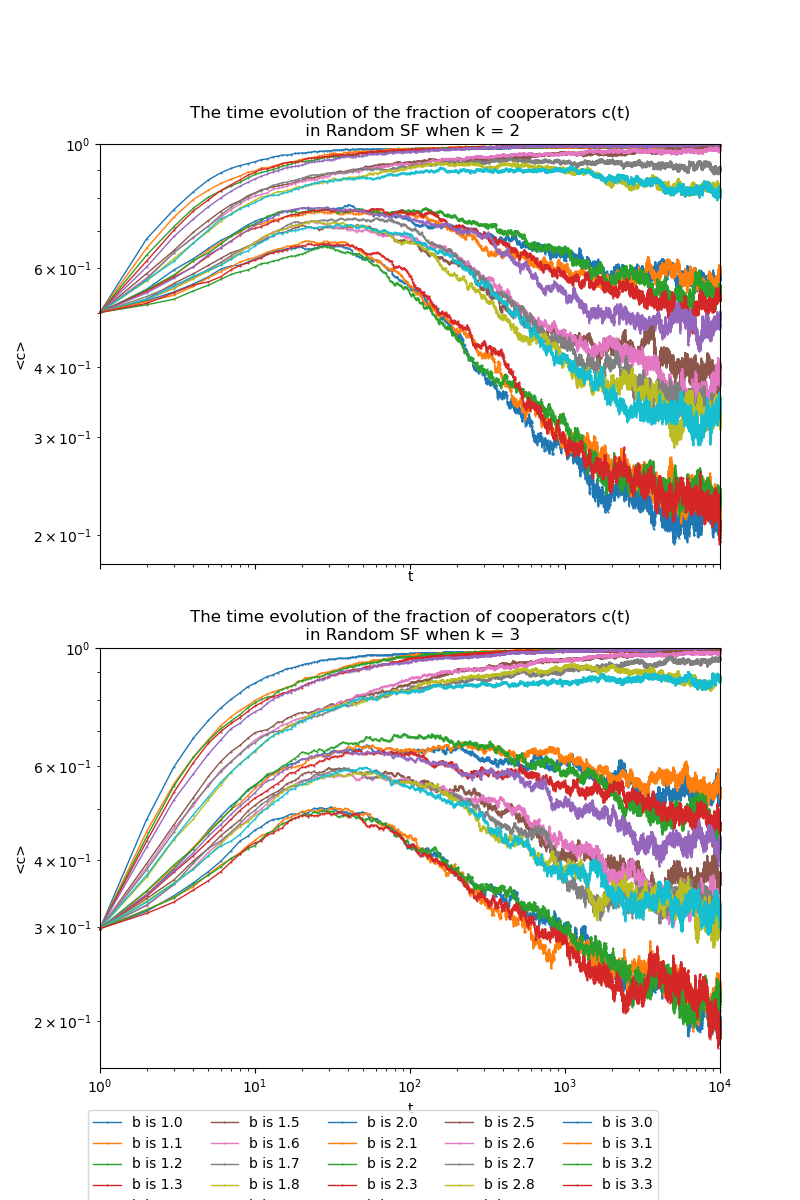
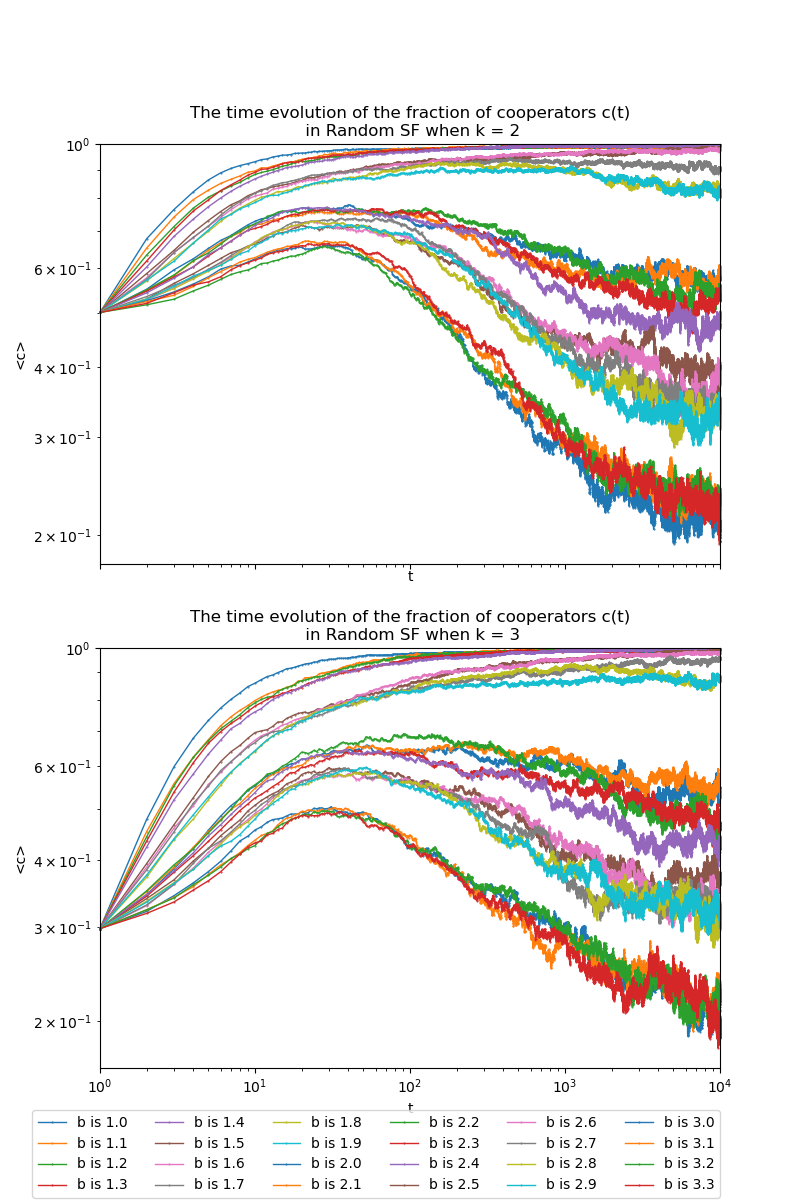
修复一点图片问题

Changed region(s): [[0.0312, 0.925, 0.9062, 1.0]]

diff --git a/plot_ba_p2.py b/plot_ba_p2.py
@@ -34,27 +34,27 @@ for i in range(len(bs)):
 # horizontal
 # ax[0].set_yscale('log')
 # ax[1].set_yscale('log')
-
+#
 # # ax[1].legend(loc=(.05, -.4), ncol=3)
 # ax[0].set_ylabel('<c>')
 # ax[1].set_ylabel('<c>')
-
+#
 # ax[0].set_title('The time evolution of the fraction of cooperators c(t)\n in BA when k = 2')
 # ax[1].set_title('The time evolution of the fraction of cooperators c(t)\n in BA when k = 3')
-
+#
 # ax[0].set_xscale('log')
 # ax[1].set_xscale('log')
-
+#
 # ax[0].set_xlim(1, 10000)
 # ax[1].set_xlim(1, 10000)
-
+#
 # ax[0].set_ylim(0, 1)
 # ax[1].set_ylim(0, 1)
-
+#
 # ax[0].set_xlabel('t')
 # ax[1].set_xlabel('t')
-
-# ax[1].legend(loc=2, bbox_to_anchor=(1,1), borderaxespad=0.)
+#
+# ax[1].legend(loc=2, bbox_to_anchor=(1.05, 1), borderaxespad=0.)
 # plt.savefig('ba_pic_part2_horizontal.png')
 
 # vertical
@@ -65,8 +65,8 @@ ax[1].set_yscale('log')
 ax[0].set_ylabel('<c>')
 ax[1].set_ylabel('<c>')
 
-ax[0].set_title('The time evolution of the fraction of cooperators c(t)\n in BA when k = 2')
-ax[1].set_title('The time evolution of the fraction of cooperators c(t)\n in BA when k = 3')
+ax[0].set_title('The time evolution of the fraction of cooperators c(t) in BA when k = 2')
+ax[1].set_title('The time evolution of the fraction of cooperators c(t) in BA when k = 3')
 
 ax[0].set_xscale('log')
 ax[1].set_xscale('log')
@@ -80,7 +80,7 @@ ax[1].set_ylim(0, 1)
 ax[0].set_xlabel('t')
 ax[1].set_xlabel('t')
 
-ax[1].legend(bbox_to_anchor=(.9, -.1), borderaxespad=0., ncol=5)
+ax[1].legend(bbox_to_anchor=(1, -.11), borderaxespad=0., ncol=6)
 plt.savefig('ba_pic_part2_vertical.png')
 
 

diff --git a/plot_normal_p2.py b/plot_normal_p2.py
@@ -81,7 +81,7 @@ ax[1].set_ylim(0, 1)
 ax[0].set_xlabel('t')
 ax[1].set_xlabel('t')
 
-ax[1].legend(bbox_to_anchor=(.9, -.1), borderaxespad=0., ncol=5)
+ax[1].legend(bbox_to_anchor=(1, -.1), borderaxespad=0., ncol=6)
 plt.savefig('random_pic_part2_vertical.png')
 
 
